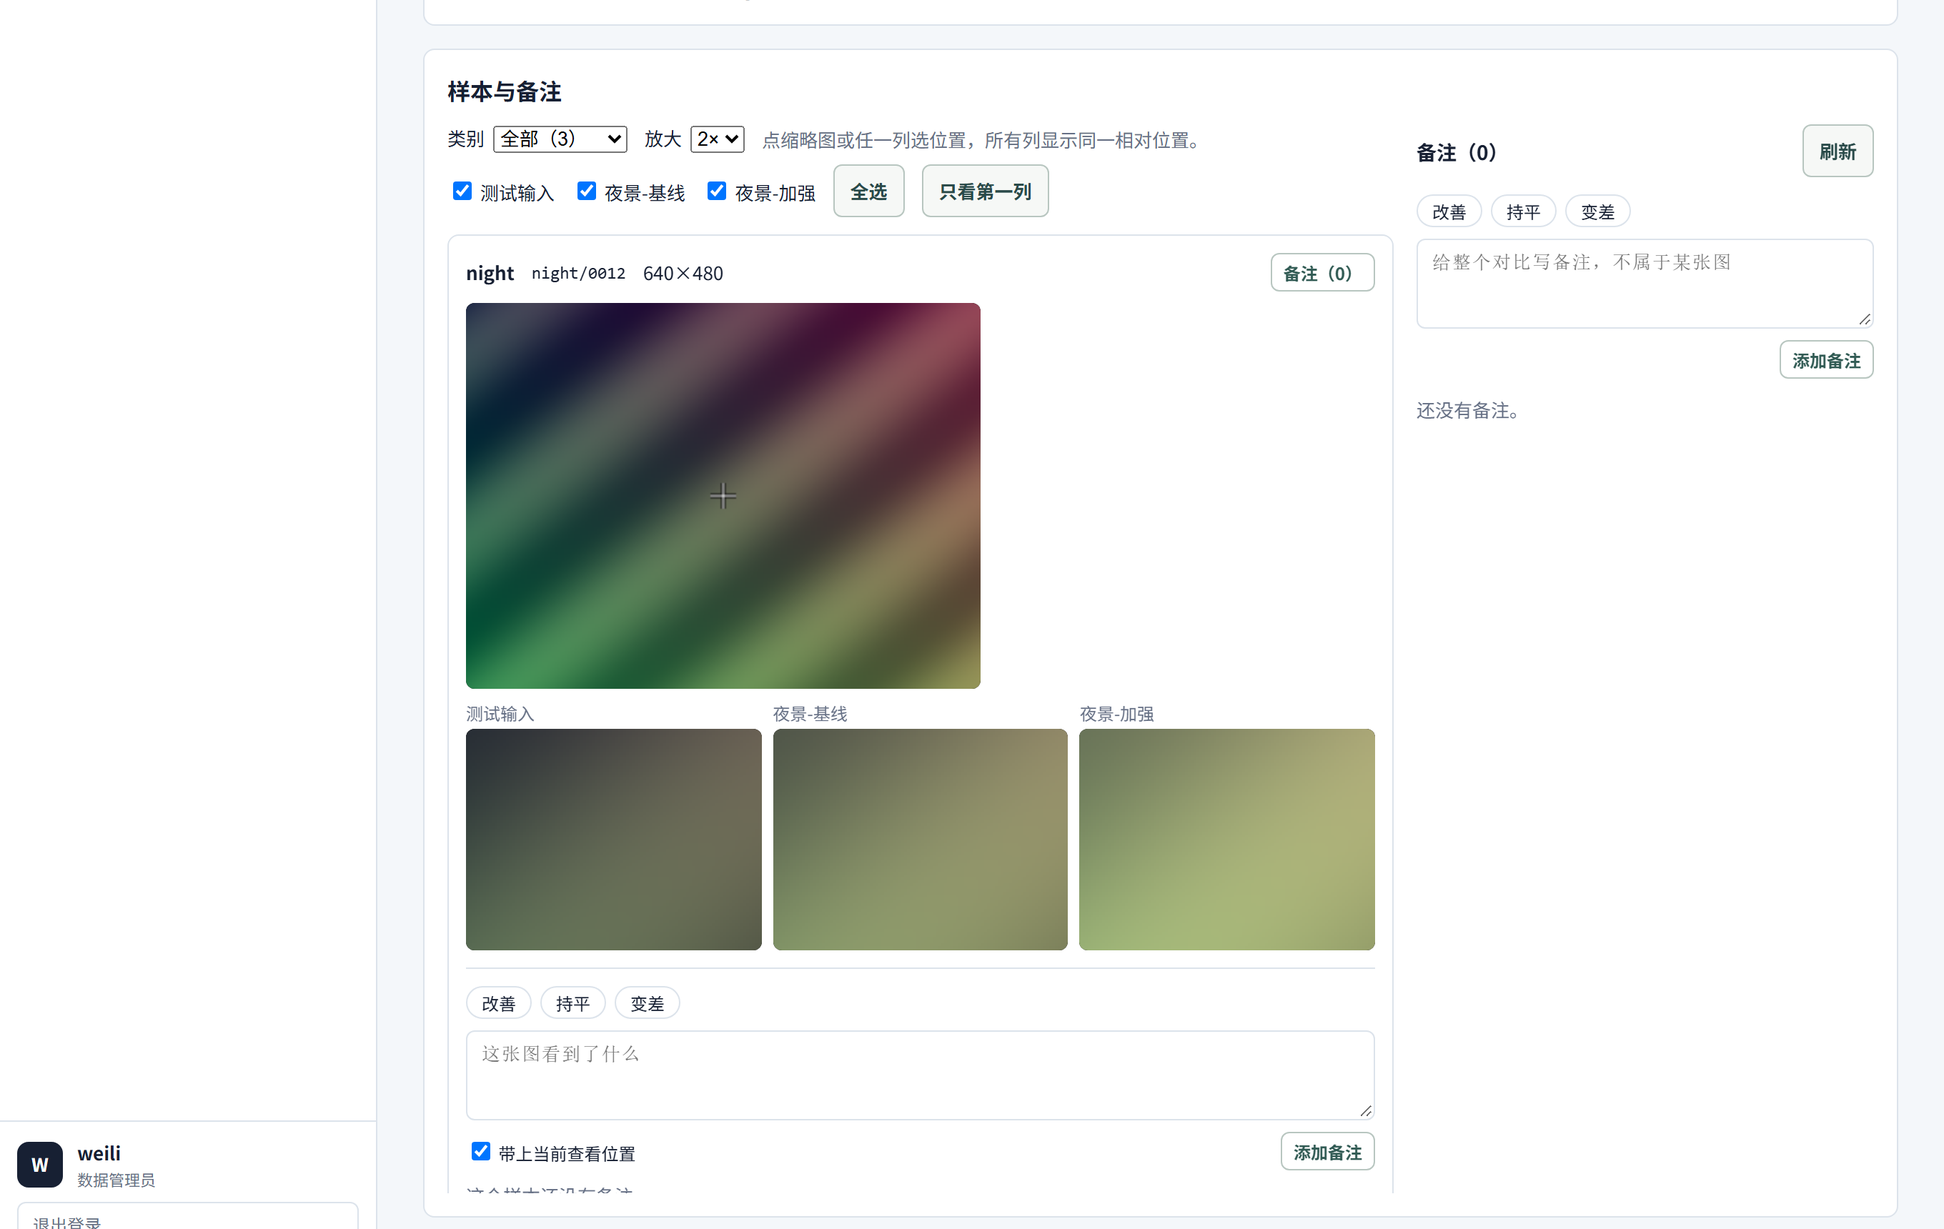
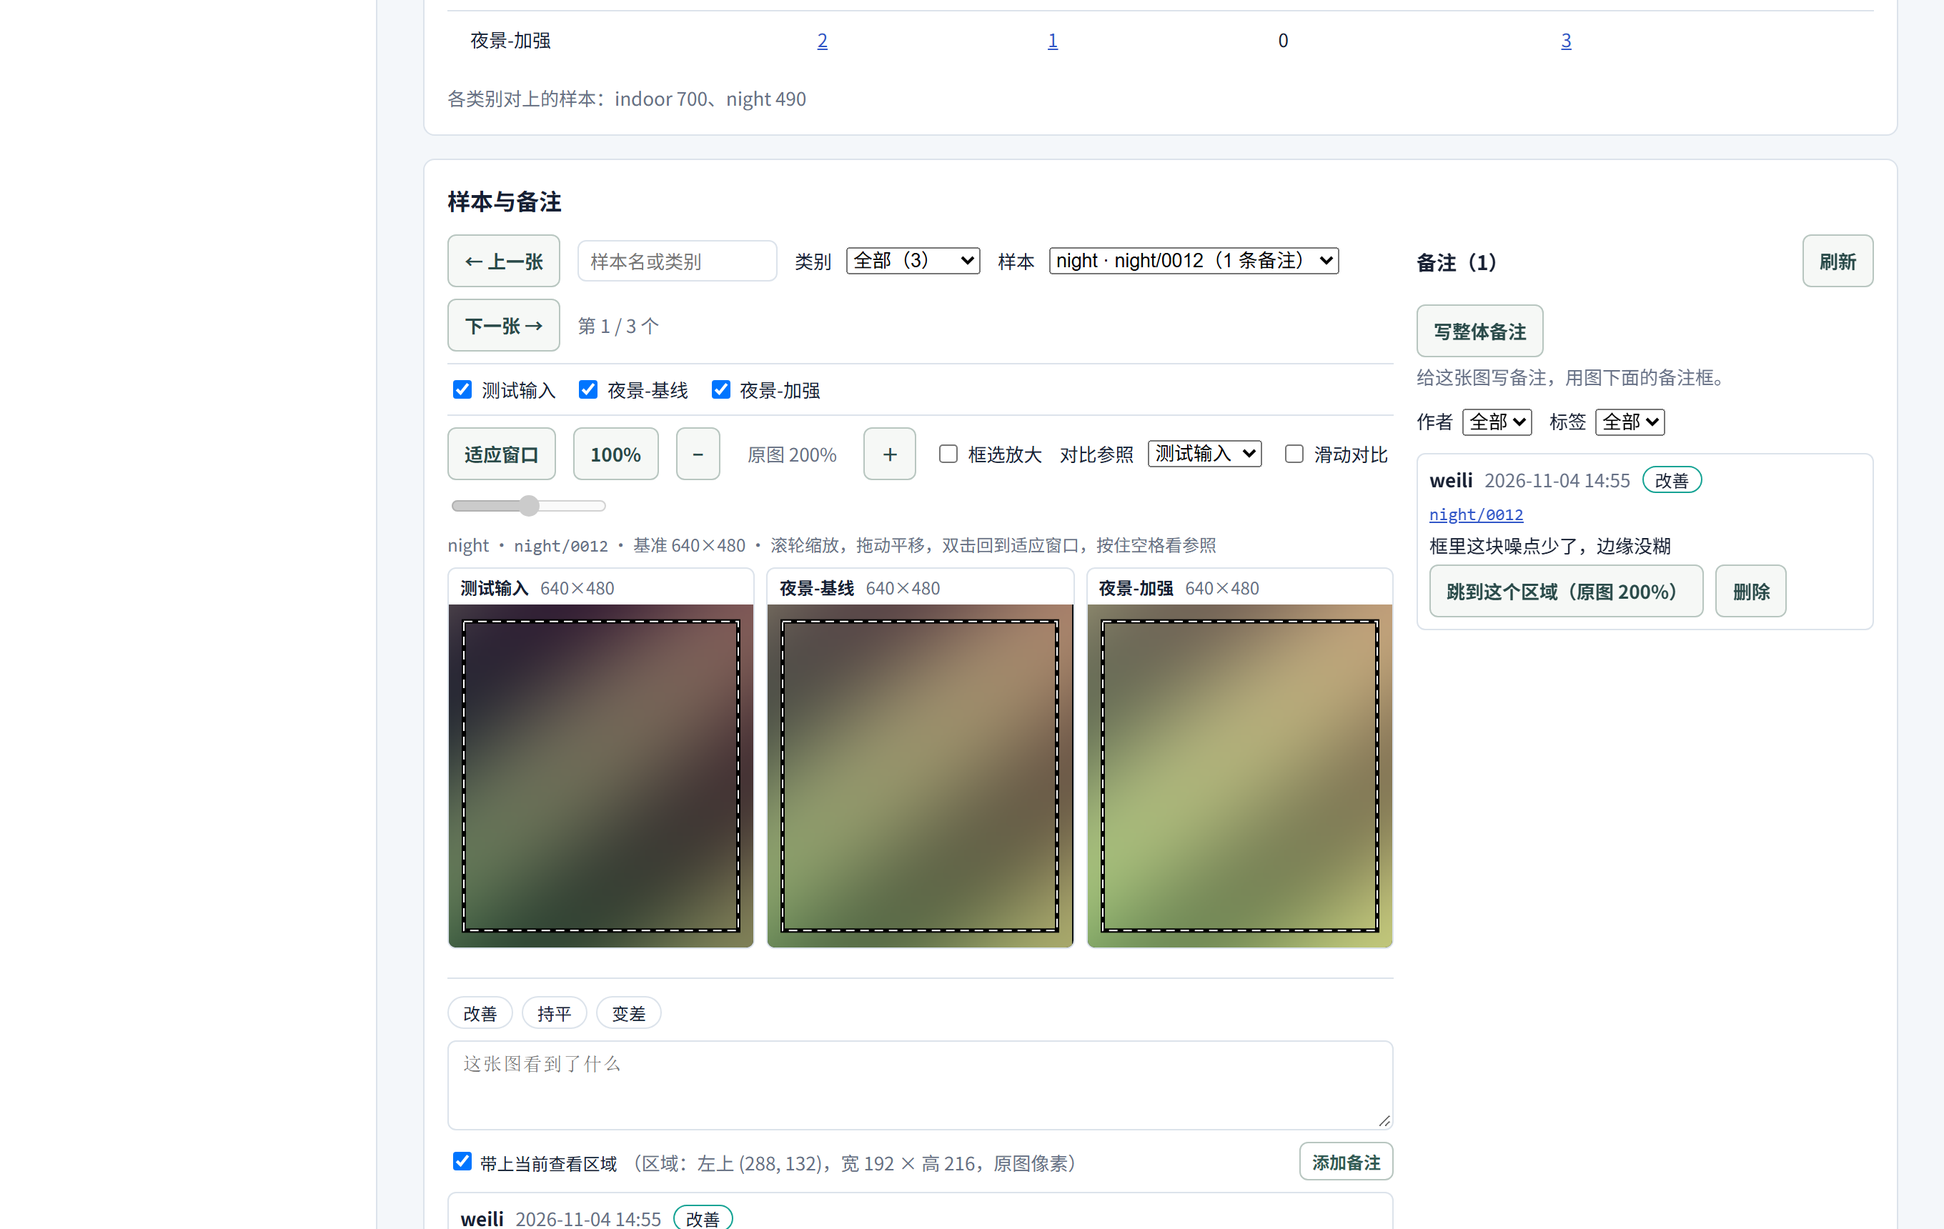
0.3.88 内容：查看器改版、备注存区域、登记报错、成员面板说明
- 「查看数据和结果对比」：看图区换成一次一个样本、勾选列、同步缩放拖动、框选、
  100%（按屏幕实际像素，100% 以上整数倍不平滑）、参照和空格、滑动对比；尺寸不同的列
  怎么显示；备注框在图下面、带上查看区域、跳回会框出那块；报告一节和排障表。
- 「登记和查找数据集」：成员管理只列登录过网页的人，找不到人时怎么办。
- 两个教程的排障表：登记测试时把结果名字填进位置一栏；成员管理里找不到人。
- 更新说明 0.3.88（release-data 等发布后同步）。
- 截图：review-cards、review-wipe（新）、review-notes 按新看图区重出；report-cards、
  report-page 用真实报告代码重出（测试输入半尺寸、带区域的备注）。出图脚本按新控件改。

Claude-Session: https://claude.ai/code/session_01Dq1FxKBycmGyXBiYwHn92z

diff --git a/app/content/platform.tsx b/app/content/platform.tsx
@@ -234,6 +234,7 @@ export const dataPlatform: DocPage = {
           ]}
         />
         <p>你只看得到自己参与的项目。要加入某个项目，找它的负责人在「成员管理」里加你。</p>
+        <p>「成员管理」的账号下拉框只列用浏览器登录过网页的人。只装了同步程序、没登录过网页的人在里面找不到：让他用浏览器登录一次网页，或者负责人在 Claude Code 里说「把某某加进项目 X」，对话里能找到装过同步程序的人。</p>
       </>,
     },
     {
@@ -408,9 +409,29 @@ export const dataReview: DocPage = {
       body: <>
         <p>页面从上到下是血缘、成员、对齐报告、样本与备注。</p>
         <Figure src="screenshots/data/lineage.png" alt="对比页的血缘图" caption="血缘：数据、训练、模型、测试之间的关系。衍生多次会逐级画出来，点节点能跳到对应页面。" source="console-fixture" />
-        <Figure src="screenshots/data/review-cards.png" alt="样本卡片，三列对比" caption="每个样本一张卡片。点上面的大图选位置，下面各列显示同一位置，放大倍数在顶部选。" source="console-fixture" />
+        <p>看图区一次看一个样本。用「上一张」「下一张」翻，也可以搜样本名、按类别筛，或在「样本」下拉框里直接选。</p>
+        <Figure src="screenshots/data/review-cards.png" alt="看图区：三个窗口显示同一个样本的三列" caption="勾几列就开几个窗口，最多 6 列。各窗口显示原图上同一块区域，一起缩放、一起拖动。" source="console-fixture" />
+        <Matrix
+          head={["想做的事", "怎么做"]}
+          rows={[
+            ["放大、缩小", "鼠标停在图上滚动滚轮，以鼠标所在的点为中心"],
+            ["移动", "在图上按住拖动"],
+            ["回到全图", "双击图，或点「适应窗口」"],
+            ["看原始像素", "点「100%」：一个原图像素对屏幕上一个像素。再往上放大只按整数倍（200%、300%……），每个原图像素画成一样大的方块，不做平滑"],
+            ["放大一块", "勾「框选放大」，在图上拖一个框"],
+            ["和参照比", "「对比参照」选一列，默认第一列。鼠标停在图上按住空格，所有窗口临时换成参照，松开换回来"],
+            ["左右对照着看", "勾「滑动对比」，每个窗口竖线左边显示参照，拖滑块改竖线位置"],
+          ]}
+        />
+        <Figure src="screenshots/data/review-wipe.png" alt="滑动对比：窗口左边是参照，右边是这一列" caption="滑动对比：竖线左边是参照（这里是测试输入），右边是这一列自己的图。" source="console-fixture" />
+        <p>各列尺寸不同时（比如超分的测试输入比结果小），小图按比例放大到和别的列对齐，窗口标题写「放大 ×2 显示」。不是按比例缩放来的图（长宽比不同，或者补过边）不画，窗口里写明它的尺寸。</p>
         <p>备注有两种，写的地方不同：</p>
-        <Figure src="screenshots/data/review-notes.png" alt="单图备注框和整体备注框" caption="写某张图：点卡片右上角的「备注」，框出现在这张卡片下面。写整个对比：点右侧的「写整体备注」。" source="console-fixture" />
+        <ul>
+          <li><b>写在这张图上</b>：用图下面的备注框。默认勾着「带上当前查看区域」：框选过就记框的那块，没框就记当时窗口里看到的那块，旁边写着是原图上哪一块。</li>
+          <li><b>写给整个对比</b>：点右侧的「写整体备注」，写完自动收起。</li>
+        </ul>
+        <Figure src="screenshots/data/review-notes.png" alt="点备注跳回后，各窗口用虚线框出当时那块" caption="点备注上的「跳到这个区域」，换到那个样本，所有窗口用虚线框出写备注时的那块。" source="console-fixture" />
+        <p>改版以前写的备注只记了中心和倍数，点「跳到这个位置」回到当时的中心和倍数，不框。</p>
       </>,
     },
     {
@@ -471,7 +492,7 @@ export const dataReview: DocPage = {
       id: "one-dataset", title: "只看一份数据",
       body: <>
         <p>对比至少要两个成员，只选一个时网页会提示「至少选两个成员」。只想看一个版本的 lq 和 gt，不用建对比，说「打开数据集 variant_a 看图」就行。</p>
-        <p>用的是同一个查看器：同样拷到本机，放大、锁定同一位置、切列都一样。和对比页的区别如下。</p>
+        <p>用的是同一个查看器：同样拷到本机，缩放、拖动、勾选列、写备注都一样。和对比页的区别如下。</p>
         <Matrix
           head={["", "数据集", "对比"]}
           rows={[
@@ -503,7 +524,7 @@ export const dataReview: DocPage = {
         <ul>
           <li><b>拷贝前先报方案。</b>工具先报样本数、文件数和大小，已有一部分在本机时会写明还要拷多少，你确认后才拷贝。默认随机 100 个，还要拷的量超过 5 GB 时要再确认一次。</li>
           <li><b>图拷到本机缓存并逐个核对。</b>缓存上限 20 GB，最久没用的先淘汰。页面在数据平台上，图从你自己的电脑读取。</li>
-          <li><b>写在某张图上的备注</b>：点图片右上角的「备注」。备注会记下这张图和当前查看位置。</li>
+          <li><b>写在某张图上的备注</b>：用图下面的备注框。备注会记下这张图和当前查看区域。</li>
           <li><b>写给整个对比或数据集的备注</b>：点右侧的「写整体备注」，写完自动收起。</li>
           <li><b>同项目成员能看到备注。</b>备注记在写的人的账号下。网页上能看，也可以让 agent 用 <code>list_review_notes</code> 查。</li>
         </ul>
@@ -544,7 +565,8 @@ export const dataReview: DocPage = {
           <li>复制完 agent 给出 <code>index.html</code> 的路径，双击打开。</li>
         </ol>
         <Figure src="screenshots/data/report-page.png" alt="报告顶部：内部资料提示、血缘图、成员表" caption="报告顶部：内部资料提示、血缘图、成员表和对齐报告。" source="console-fixture" />
-        <Figure src="screenshots/data/report-cards.png" alt="报告里的样本卡片，三列对比" caption="样本卡片：可以放大、点图选位置、切列、按类别筛选。备注只读，带位置的备注可以跳回当时的位置。" source="console-fixture" />
+        <Figure src="screenshots/data/report-cards.png" alt="报告里的看图区，三个窗口，框出备注里的区域" caption="报告和查看页面是同一种看法：勾选列、缩放、拖动、框选、参照、滑动对比都能用。备注只读，点「跳到这个区域」会框出那块。" source="console-fixture" />
+        <p>v0.3.88 起导出的报告是这个样子。之前导出的报告还是一样本一张卡片，点带区域的备注只移到当时的中心。</p>
         <Code>{`夜景两次测试-20261102-1530/     默认放在用户目录的 AIIGovernance-reports 下
   index.html                    报告页面
   images/                       原图
@@ -594,6 +616,10 @@ export const dataReview: DocPage = {
             ["页面提示要打开查看器", "小服务已退出，或页面刷新后地址失效", "在 Claude Code 里再说一句「打开对比 X」，不会重新下载"],
             ["小服务在跑但图片全空", "浏览器没有允许访问本地网络", "地址栏左侧的站点设置里打开「本地网络访问」"],
             ["进评审页提示没有权限", "账号不属于任何项目", "找项目负责人加成员"],
+            ["按空格没有反应", "鼠标不在图上，或光标在输入框里", "把鼠标移到图上再按"],
+            ["窗口写「不是其他列按比例缩放来的」", "这一列长宽比不同，或者补过边、裁过边", "正常，硬拉过去会错位；单独打开那张图看"],
+            ["窗口写「放大 ×2 显示」", "这一列原图比别的列小，比如超分的输入", "正常，看到的像素块就是原图的像素"],
+            ["报告里点备注只移了位置，没有框", "报告是 v0.3.88 以前导出的", "升级后重新导出"],
           ]}
         />
         <Maintainer title="引导流程写在哪里">

diff --git a/app/content/data-tutorials.tsx b/app/content/data-tutorials.tsx
@@ -317,6 +317,7 @@ export const dataWeb: DocPage = {
             ["「派生自」里找不到想要的数据", "它在别的模块", "用对话方式写来源"],
             ["状态一直是进行中", "登记时没选「已完成」", "详情页点「修改」，改状态"],
             ["选过的排序下次没记住", "无痕窗口，或浏览器禁止网站存数据", "不影响使用，按默认顺序显示"],
+            ["「成员管理」里找不到某人", "他只装了同步程序，没用浏览器登录过网页", "让他登录一次网页；或者在 Claude Code 里说「把某某加进项目 X」"],
             ["三栏上方提示只显示最新的 N 条", "这个模块的记录超过一次能取回的量（500 条）", "排序和搜索只在这 N 条里；用搜索框缩小范围"],
             ["测试集下拉框是空的", "这个模块没有测试数据", "先登记测试数据"],
             ["新建对比时基准是灰的", "它还没冻结", "到版本页先冻结"],
@@ -656,6 +657,7 @@ export const dataAgent: DocPage = {
             ["改来源时提示这份数据有多个来源", "安装器低于 v0.3.86，旧版只能写一个来源", "升级到 v0.3.86 起，或到网页上改"],
             ["agent 说不能建合并集", "安装器低于 v0.3.86", "升级后开新会话"],
             ["说「按大小排」，agent 说做不到，或者拿回来自己排", "安装器低于 v0.3.87", "升级后开新会话"],
+            ["登记测试或模型时提示「找不到叫 X 的数据位置」，或「所选数据位置不在合法取值域内」", "agent 把结果或模型的名字填进了位置那一栏（result_alias、storage_alias）", "告诉 agent 结果目录在哪个数据位置，比如 NAS-CE-yubo-02；v0.3.88 起工具说明写明了这一点"],
             ["按大小排时有几条排在最后、没有大小", "这几条还没冻结", "正常，冻结后就有大小"],
             ["合并被拒绝", "有成员没冻结、正在冻结、类型不同、本身是合并集，或来源名不合规则", "按提示处理"],
             ["建对比或打开查看器提示没有可看的图片", "数据是 .npy 等非图片文件", <>在训练环境转成图片，见<a key="a" href="#no-images">不是图片的数据</a></>],

diff --git a/app/release-notes.ts b/app/release-notes.ts
@@ -17,6 +17,16 @@ export type ReleaseNote = {
 };
 
 export const releaseNotes: Record<string, ReleaseNote> = {
+  "0.3.88": {
+    summary:
+      "功能版本：看图换成一次看一个样本、几个窗口同步缩放的方式；备注能记下看的是哪块区域。MCP 工具还是 31 个。",
+    highlights: [
+      "看图区一次看一个样本，勾几列就开几个窗口（最多 6 列）。各窗口一起缩放、一起拖动；可以框选放大、按住空格看参照、拖滑块左右对照。放大到 100% 以上只按整数倍，每个原图像素画成一样大的方块，不做平滑。网页这部分已经上线，不用升级安装器。",
+      "各列尺寸不同时（比如超分的输入比结果小），小图按比例放大到和别的列对齐，窗口上写放大了几倍；不是按比例缩放来的图不画，写明尺寸。",
+      "写备注时会记下看的是哪块区域：框选过就记框的那块，没框就记当时看到的那块。别人点「跳到这个区域」，所有窗口框出同一块。导出的 HTML 报告换成同一种看法，要升级到这一版再导出。",
+      "登记测试结果时把结果名字填进位置一栏，以前只报「数据位置不在合法取值域内」，现在写明是哪个参数、该填什么。数据平台「成员管理」写明只列登录过网页的人，找不到人时怎么办。后台同步程序升到 0.4.22，治理框架没有变。",
+    ],
+  },
   "0.3.87": {
     summary:
       "功能版本：对话里列数据、搜数据可以排序和缩小范围；网页上的列表都加了搜索框和排序。MCP 工具还是 31 个。",

diff --git a/scripts/screenshots/demo-report.py b/scripts/screenshots/demo-report.py
@@ -16,21 +16,25 @@ from aiig_viewer.imaging import encode_png_rgb8
 from aiig_viewer.report import ReportProgress, write_report
 
 WIDTH, HEIGHT = 640, 480
-COLUMNS = [("input", "测试输入", 0.45, 22), ("a", "测试 A", 0.8, 4), ("b", "测试 B", 1.0, 12)]
+# 测试输入是一半大小（超分的输入），报告里会按比例放大到和结果对齐，标题写「放大 ×2 显示」。
+COLUMNS = [("input", "测试输入", 0.45, 22, 2), ("a", "测试 A", 0.8, 4, 1), ("b", "测试 B", 1.0, 12, 1)]
 KEYS = [("night_0001", "夜景"), ("night_0002", "夜景"), ("day_0001", "白天")]
 
 
-def picture(seed: int, detail: float, noise: int) -> bytes:
+def picture(seed: int, detail: float, noise: int, shrink: int = 1) -> bytes:
+    width, height = WIDTH // shrink, HEIGHT // shrink
     pixels = bytearray()
-    for y in range(HEIGHT):
-        for x in range(WIDTH):
-            wave = math.sin((x + seed * 40) / 9) * math.cos((y - seed * 25) / 11) * 70 * detail
-            grain = ((x * 7919 + y * 104729 + seed * 31) % 97 / 97 - 0.5) * noise * 2
-            base = 70 + 90 * x / WIDTH + wave + grain
+    for y in range(height):
+        for x in range(width):
+            # 按缩小前的坐标算，缩小后的图和大图是同一个画面。
+            fx, fy = x * shrink, y * shrink
+            wave = math.sin((fx + seed * 40) / 9) * math.cos((fy - seed * 25) / 11) * 70 * detail
+            grain = ((fx * 7919 + fy * 104729 + seed * 31) % 97 / 97 - 0.5) * noise * 2
+            base = 70 + 90 * fx / WIDTH + wave + grain
             pixels += bytes((min(255, max(0, int(base + 20))),
-                             min(255, max(0, int(base + 60 * y / HEIGHT))),
+                             min(255, max(0, int(base + 60 * fy / HEIGHT))),
                              min(255, max(0, int(base + 45)))))
-    return encode_png_rgb8(WIDTH, HEIGHT, bytes(pixels))
+    return encode_png_rgb8(width, height, bytes(pixels))
 
 
 def main(out: Path) -> None:
@@ -42,17 +46,17 @@ def main(out: Path) -> None:
         samples = []
         for index, (key, category) in enumerate(KEYS):
             files = []
-            for panel, _caption, detail, noise in COLUMNS:
-                body = picture(index + 1, detail, noise)
+            for panel, _caption, detail, noise, shrink in COLUMNS:
+                body = picture(index + 1, detail, noise, shrink)
                 asset = str(uuid.uuid4())
                 (cache / f"{asset}.png").write_bytes(body)
                 files.append({"panel": panel, "asset_id": asset, "nas_host": "demo", "nas_share": "demo",
                               "share_path": f"{panel}/{key}.png", "size": len(body),
-                              "sha256": hashlib.sha256(body).hexdigest(), "width": WIDTH,
-                              "height": HEIGHT, "ext": "png"})
+                              "sha256": hashlib.sha256(body).hexdigest(), "width": WIDTH // shrink,
+                              "height": HEIGHT // shrink, "ext": "png"})
             samples.append({"sample_key": key, "category": category, "files": files})
         raw = {"title": "示例：两次测试的结果对比",
-               "panels": [{"key": key, "caption": caption} for key, caption, _d, _n in COLUMNS],
+               "panels": [{"key": key, "caption": caption} for key, caption, _d, _n, _s in COLUMNS],
                "samples": samples, "estimate": {}, "not_viewable": [], "truncated": False}
         summary = {
             "lineage": {
@@ -87,12 +91,14 @@ def main(out: Path) -> None:
         notes = [
             {"author_login": "demo-user", "body": "A 的暗部噪声少一些，B 的细节多一点。", "tag": "improved",
              "sample_key": "night_0001", "created_at": "2026-11-02T03:20:00Z",
-             "view": {"rx": "0.55", "ry": "0.48", "zoom": "3"}},
+             # 带查看区域（ROI）的备注：报告里点「跳到这个区域」会框出这块。
+             "view": {"rx": "0.6", "ry": "0.5", "zoom": "1.5", "roi_x": "0.5", "roi_y": "0.4",
+                      "roi_w": "0.2", "roi_h": "0.2"}},
             {"author_login": "demo-user", "body": "夜景这批 A 更好，白天两边差不多。", "tag": "marked",
              "sample_key": None, "created_at": "2026-11-02T03:40:00Z"}]
         progress = ReportProgress(9, 0)
         write_report(parse_bundle("comparison", comparison, raw), state_dir, out, summary=summary,
-                     notes=notes, notes_truncated=False, sampling={"mode": "all"}, version="0.4.19",
+                     notes=notes, notes_truncated=False, sampling={"mode": "all"}, version="0.4.22",
                      progress=progress)
         if progress.state != "ready":
             raise SystemExit(progress.error)
